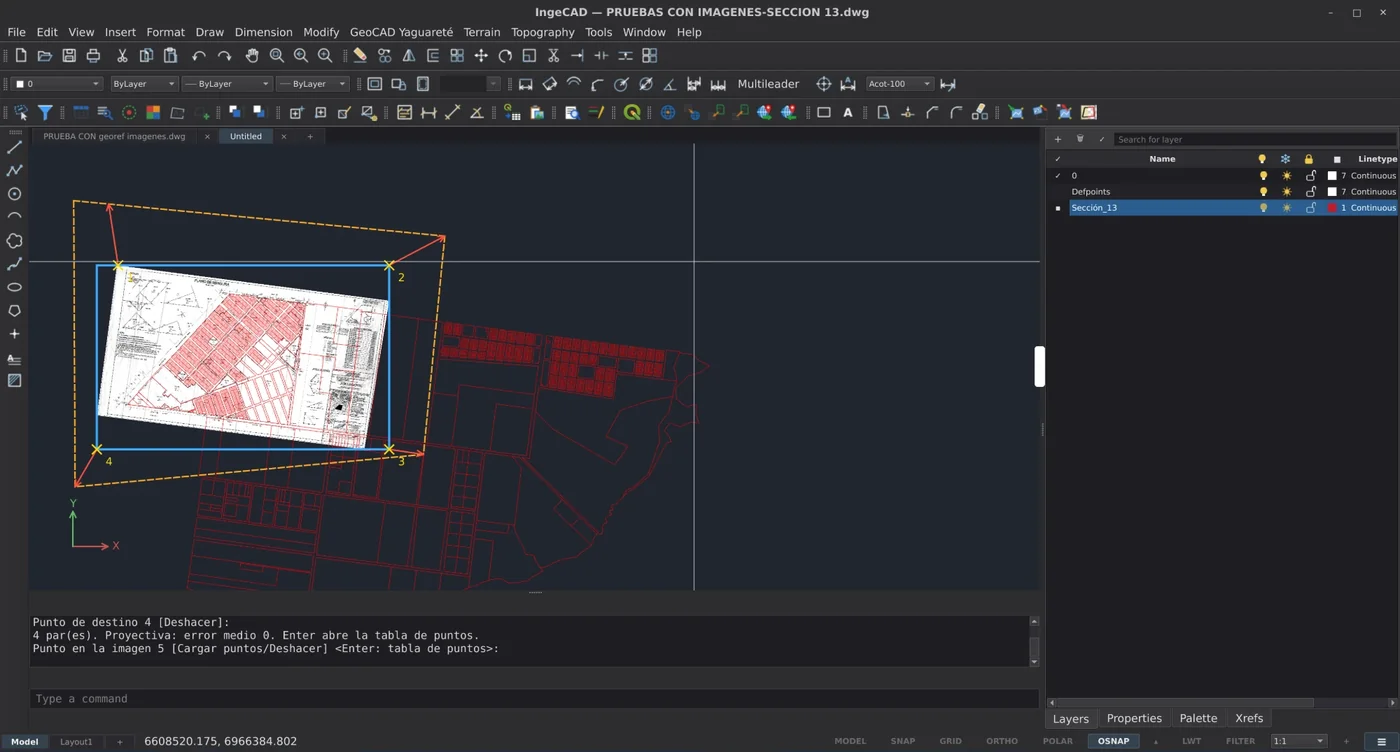
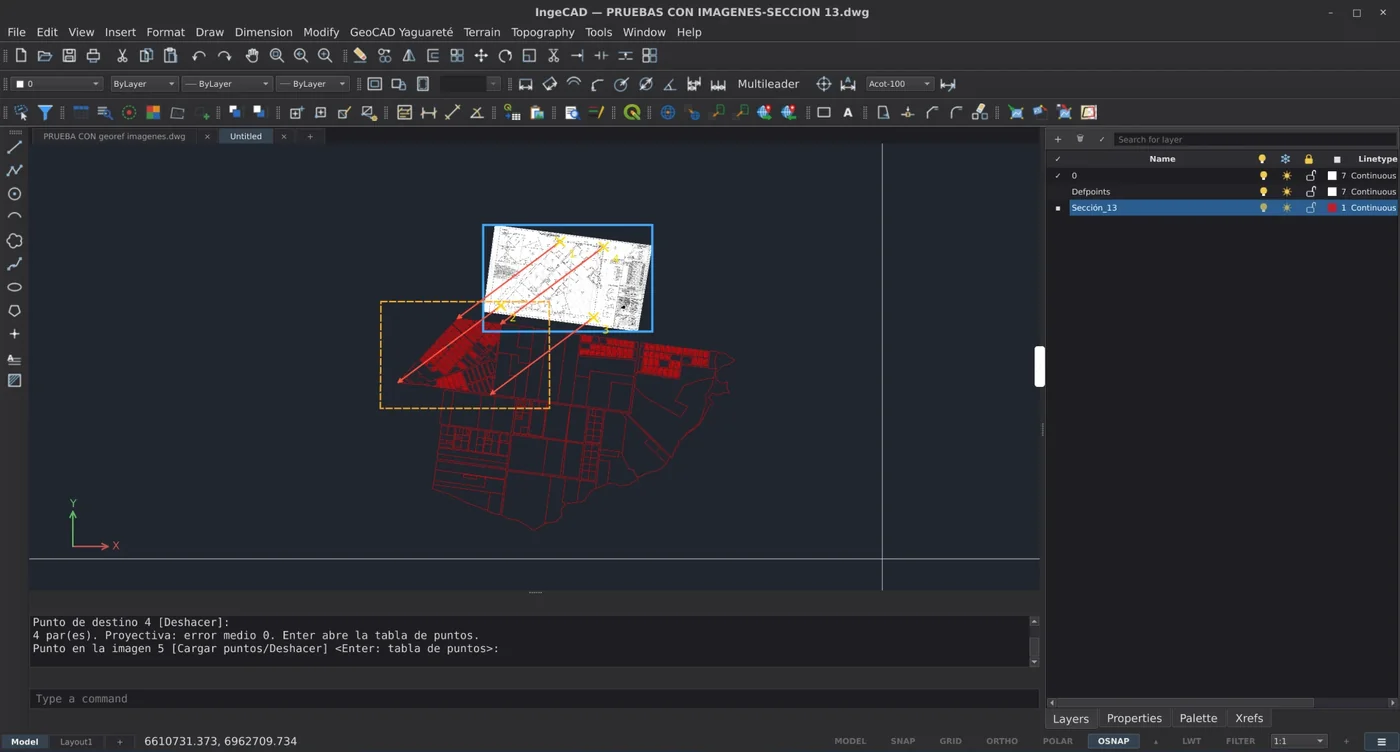
Guía GEORREF.md con la secuencia completa (pares, tabla y resultado) de Fernando; README con pares y resultado lado a lado

diff --git a/GEORREF.md b/GEORREF.md
@@ -7,12 +7,11 @@ dónde está algo en la imagen y dónde tiene que quedar en el dibujo. Funciona
 como el **Georreferenciador de QGIS**, con los mismos métodos y el mismo
 archivo de puntos (`.points`), y como el RUBBERSHEET de AutoCAD Map.
 
-![Cuatro pares: de las esquinas del marco de la imagen a su lugar; punteado, dónde va a quedar](imagenes/georref_1_pares.webp)
+![El plano de mensura escaneado, ya en su lugar sobre las parcelas de la sección](imagenes/georref_4_resultado.webp)
 
-*Un plano de mensura escaneado sobre las parcelas de la sección. Cada flecha
-roja numerada es un par, que va de un punto de la imagen (cruz amarilla) a
-su lugar en el dibujo. El punteado naranja muestra dónde va a quedar la
-imagen antes de transformarla.*
+*Un plano de mensura escaneado, llevado con GEORREF sobre las parcelas de la
+sección (en rojo). Abajo, [la secuencia completa](#cómo-se-usa) que lo dejó
+ahí.*
 
 ## Antes de empezar (una sola vez)
 
@@ -39,8 +38,20 @@ imagen antes de transformarla.*
    el método, se ve punteado dónde va a quedar la imagen. **Deshacer (U)**
    quita el último punto. Los puntos también se pueden escribir como
    coordenadas.
-3. **Enter** abre la **tabla de puntos**.
-4. Elegir el **tipo de transformación** y **Transformar**.
+
+   ![Cuatro pares: del plano escaneado (arriba) a las parcelas del dibujo; punteado, dónde va a quedar](imagenes/georref_1_pares.webp)
+
+   *El plano escaneado está arriba, lejos de su lugar. Cada flecha roja
+   numerada va de un punto del plano (cruz amarilla) al mismo punto en las
+   parcelas del dibujo. El rectángulo punteado naranja muestra dónde va a
+   quedar el plano.*
+3. **Enter** abre la **tabla de puntos** (ver [abajo](#la-tabla-de-puntos)).
+   Elegir el **tipo de transformación** y **Transformar**.
+4. Listo: el plano queda en su lugar, sobre el dibujo. Con un método que
+   rehace la imagen, la copia tiene fondo transparente y las parcelas se
+   siguen viendo a través. Los puntos quedan guardados en un `.points` que
+   abre el Georreferenciador de QGIS, y QGIS abre la copia en su lugar.
+   Es la captura del principio de esta guía.
 
 Un solo **U** después de transformar deja la imagen como estaba.
 

diff --git a/README.md b/README.md
@@ -46,7 +46,9 @@ puntos con residuos y error medio, el mismo archivo `.points`, y una copia
 con su archivo de mundo que QGIS abre en su lugar.
 **[Cómo se usa](GEORREF.md)**.
 
-![GEORREF: pares de puntos y, punteado, dónde va a quedar la imagen](imagenes/georref_1_pares.webp)
+| Se marcan los pares: del plano escaneado a su lugar | El plano queda en su lugar, sobre las parcelas |
+|---|---|
+| ![GEORREF: pares de puntos y, punteado, dónde va a quedar la imagen](imagenes/georref_1_pares.webp) | ![El plano ya en su lugar](imagenes/georref_4_resultado.webp) |
 
 ## Módulos (nada invasivo)
 
